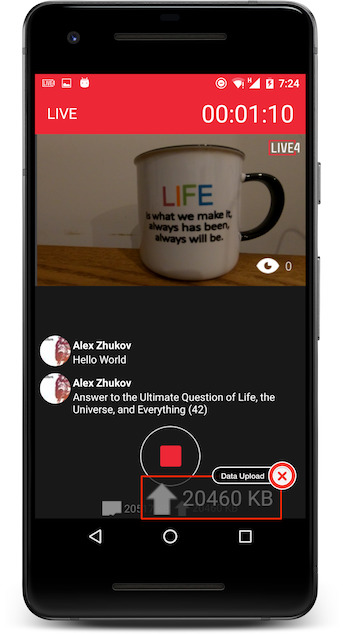
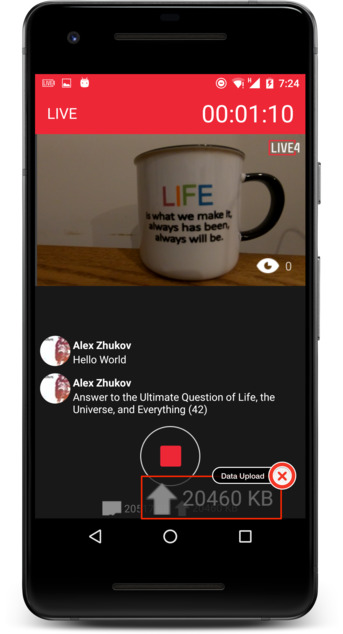
resized images

diff --git a/_posts/2018-10-03-ios-dont-lock-screen.md b/_posts/2018-10-03-ios-dont-lock-screen.md
@@ -44,9 +44,7 @@ The most frequent reason for stream interrupt on iOS is when you lock your phone
 iOS kills any app that works with video as soon as it gets off the screen.
 
 LIVE4 is sending notification when the app is entering background to let you know your stream is going to stop soon. And lets you know what happened if you missed or disabled notifications.
-![data upload](/assets/ios_lock_screen1_framed.jpg)
-![data upload](/assets/ios_lock_screen2_framed.jpg)
-![pug](/assets/ios-lockscreen-pug-framed.jpg)
+![data upload](/assets/ios_lock_screen1_framed_small.jpg) ![data upload](/assets/ios_lock_screen2_framed_small.jpg) ![pug](/assets/ios-lockscreen-pug-framed_small.jpg)
 
 
 We are working non-stop to make streaming with locked screen possible, but can't promise anything since it's Apples policy.
@@ -54,7 +52,7 @@ We are working non-stop to make streaming with locked screen possible, but can't
 As a workaround we can recommend using our Android app. Which you can find on [Google Play](https://play.google.com/store/apps/details?id=com.vg.goprolive&referrer=utm_source%3Dlive4_web%26utm_medium%3Dblog_ioslock%26utm_term%3Dcampaign1%26utm_content%3Dblog_ioslock_link%26utm_campaign%3Dblog_campaign). 
 
 Here is what it looks like when screen is locked on Android
-[![screen locked android](/assets/android_lock_screen1_framed.jpg)](https://play.google.com/store/apps/details?id=com.vg.goprolive&referrer=utm_source%3Dlive4_web%26utm_medium%3Dblog_ioslock%26utm_term%3Dcampaign1%26utm_content%3Dblog_ioslock_link%26utm_campaign%3Dblog_campaign)
+[![screen locked android](/assets/android_lock_screen1_framed_small.jpg)](https://play.google.com/store/apps/details?id=com.vg.goprolive&referrer=utm_source%3Dlive4_web%26utm_medium%3Dblog_ioslock%26utm_term%3Dcampaign1%26utm_content%3Dblog_ioslock_link%26utm_campaign%3Dblog_campaign)
 
 If you have questions, concerns or ideas how to make the experience better don't hesitate to contact us at [support@live4.io](mailto:support@live4.io) or join the discussion at [our facebook community page](https://facebook.com/LIVE4GoPro/)
 
